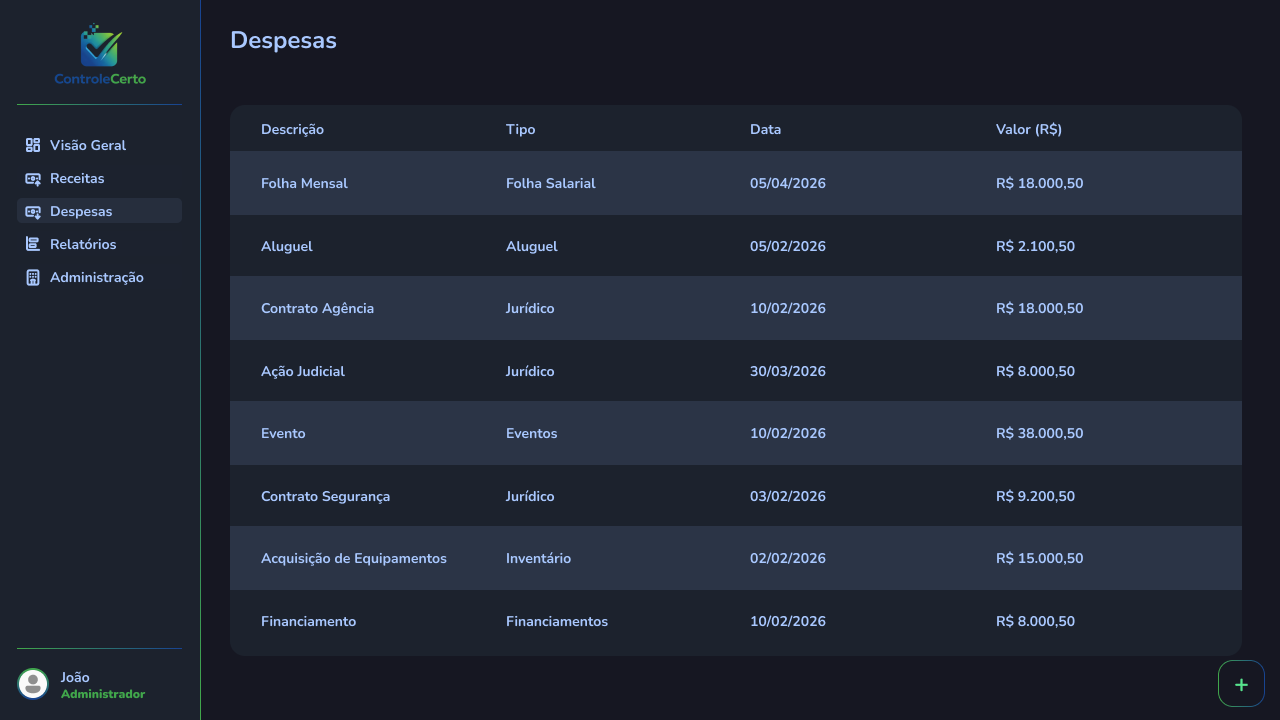
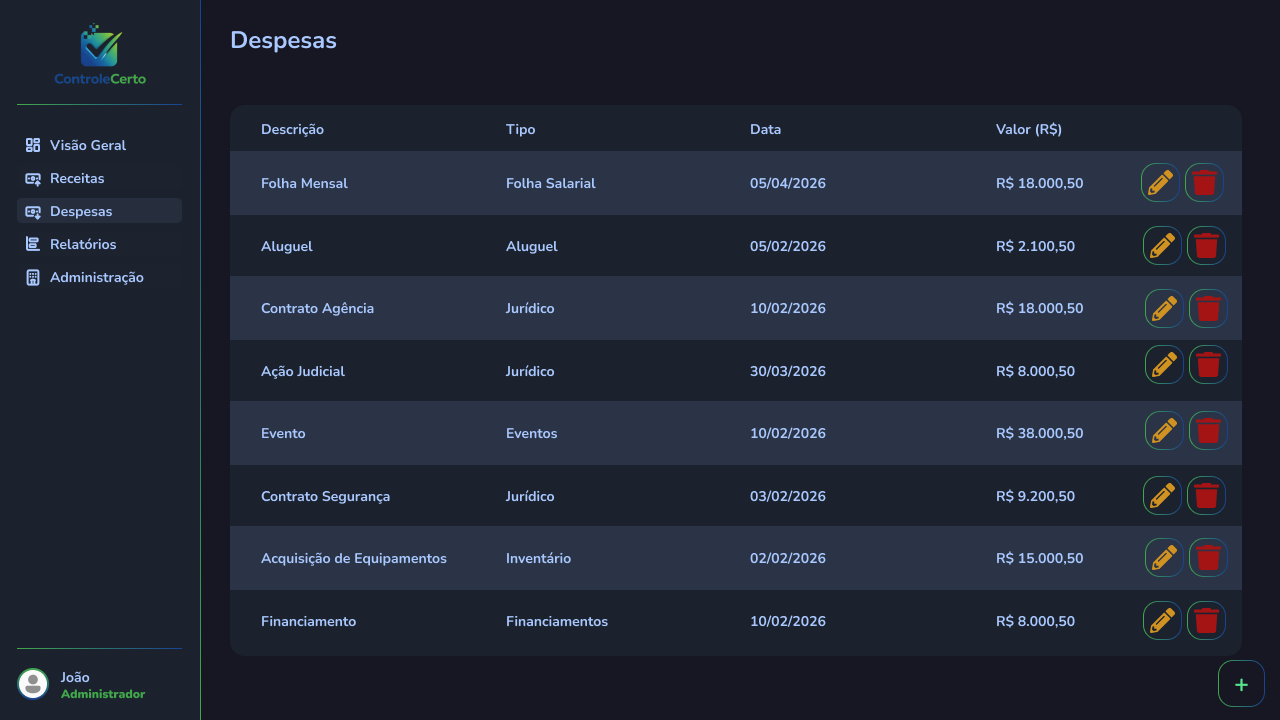
Update design.md

diff --git a/docs/4.design.md b/docs/4.design.md
@@ -327,6 +327,66 @@ O objetivo da tela de dados do usuário é apresentar de forma clara e organizad
 
 - **Estética e Design Minimalista:** Apenas as informações essenciais do perfil foram exibidas, evitando excesso de elementos visuais e proporcionando uma interface limpa e de fácil leitura.
 
+## Protótipo - Administração: Listagem de Usuários
+
+![Administração](img/prototipo/administracao_listagem.png)
+
+### 1. Objetivo da Tela
+
+O objetivo da tela de administração é permitir que o usuário com perfil de administrador visualize, gerencie e controle todos os usuários cadastrados no sistema de forma organizada e intuitiva.
+
+A tela busca facilitar a gestão de acessos, apresentando informações relevantes como nome, CPF, e-mail e cargo de cada usuário, além de disponibilizar ações de edição e exclusão para cada registro.
+
+### 2. Princípios Gestálticos
+
+- **Similaridade:** Os elementos da tabela seguem o mesmo padrão visual, utilizando cores, tipografia e espaçamentos consistentes, facilitando a leitura e identificação das informações de cada usuário.
+
+- **Proximidade:** As informações de cada usuário foram agrupadas em linhas organizadas, e os botões de ação (editar e excluir) posicionados juntos ao final de cada linha, indicando claramente que pertencem àquele registro específico.
+
+- **Continuidade:** A estrutura da tabela conduz naturalmente a leitura horizontal das informações, permitindo ao administrador identificar rapidamente os dados de cada usuário cadastrado.
+
+- **Pregnância:** Foram utilizados componentes visuais simples e familiares, como tabelas e ícones de ação reconhecíveis (lápis para editar e lixeira para excluir), tornando a interface imediatamente compreensível.
+
+### 3. Regras de Ouro
+
+- **Consistência:** A tela mantém o mesmo padrão visual utilizado nas demais áreas do sistema, preservando identidade visual, cores e navegação.
+
+- **Feedback Informativo:** As informações dos usuários são apresentadas de forma clara e objetiva, auxiliando o administrador no gerenciamento dos acessos ao sistema.
+
+- **Estética e Design Minimalista:** Apenas informações essenciais foram exibidas na tabela, evitando excesso de elementos visuais e proporcionando uma interface limpa e de fácil leitura.
+
+- **Visibilidade:** O botão de adição de novo usuário permanece destacado no canto inferior direito da tela, garantindo acesso rápido à funcionalidade de cadastro sem poluir visualmente a listagem.
+
+## Protótipo - Administração: Cadastro de Usuário
+
+![Cadastro de Usuário](img/prototipo/administracao_cad_usu.png)
+
+### 1. Objetivo da Tela
+
+O objetivo da tela de aadastro de usuário é permitir que o administrador registre novos usuários no sistema de forma simples, rápida e organizada.
+
+A tela busca facilitar o preenchimento das informações necessárias para criação de um novo acesso, permitindo o registro de dados como nome, CPF, e-mail e cargo do usuário.
+
+### 2. Princípios Gestálticos
+
+- **Similaridade:** Os campos do formulário seguem o mesmo padrão visual, utilizando cores, formatos e estilos consistentes, transmitindo coesão e facilitando o preenchimento sequencial das informações.
+
+- **Proximidade:** Os campos relacionados ao cadastro foram agrupados próximos entre si, indicando ao usuário que todas as informações pertencem ao mesmo contexto e devem ser preenchidas conjuntamente.
+
+- **Continuidade:** A disposição vertical dos campos conduz naturalmente o administrador pelo fluxo de preenchimento das informações, de cima para baixo, de forma intuitiva e sem ambiguidades.
+
+- **Pregnância:** Foram utilizados componentes simples e familiares, como campos de entrada de texto, campo de seleção com indicador de dropdown e botão de ação, tornando a interface imediatamente compreensível.
+
+### 3. Regras de Ouro
+
+- **Consistência:** A tela mantém o mesmo padrão visual utilizado nas demais áreas do sistema, preservando identidade visual, cores e navegação.
+
+- **Feedback Informativo:** Os campos do formulário foram organizados de maneira clara para auxiliar o administrador durante o preenchimento e cadastro do novo usuário.
+
+- **Estética e Design Minimalista:** Apenas as informações essenciais para o cadastro foram exibidas, evitando excesso de elementos visuais e proporcionando uma interface limpa e objetiva.
+
+- **Visibilidade:** O botão de cadastro permanece destacado abaixo dos campos, com contorno em verde, facilitando a identificação e confirmação da ação pelo administrador.
+
 ## 4.4 Testes com Protótipos
 Nesta seção você deve apresentar os testes realizados com usuários utilizando os protótipos de alta fidelidade desenvolvidos na seção anterior. O objetivo é avaliar a usabilidade, a clareza das informações e a adequação do design às necessidades das personas definidas no projeto.
 
